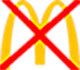
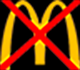
getting there

diff --git a/McDs_Quiz/style.css b/McDs_Quiz/style.css
@@ -7,7 +7,7 @@ body {
 .container {
   display: flex;
   flex-direction: column;
-  background-color: rgb(235, 180, 180);
+  background-color: rgb(201, 201, 201);
   border-radius: 15px;
   font-family: "Poppins";
 }
@@ -34,8 +34,9 @@ body {
 .card1 {
   display: flex;
   flex-direction: row-reverse;
-  padding: 20px;
-  height: 120px;
+
+  padding: 10px;
+  height: 100px;
   border-bottom: 2px dotted black;
 }
 
@@ -49,27 +50,17 @@ body {
 
 .question {
   display: flex;
-  justify-content: flex-start;
+  /* justify-content: flex-start; */
+  align-items: center;
   margin-left: 50px;
-}
-
-.icons {
-  display: flex;
-  flex-direction: column;
-
-  align-items: flex-start;
-  border: solid gray 2px;
 }
 
 /* .wrapper:last-of-type {
   margin-bottom: 48px;
 } */
 
-.radio {
-  display: flex;
-  /* flex-flow: row flex-end; */
-  width: 20px;
-  size: 1.5em;
+input[type="radio"] {
+  transform: scale(1.5);
 }
 
 #radioset1 {
@@ -77,22 +68,18 @@ body {
 }
 
 .mcds {
-  /* display: flex; */
-  flex-direction: row;
-  width: 40px;
-  padding: 20px;
-  background: no-repeat url("../McDs_Quiz/img/McDs_Group.png");
-  background-size: 80%;
+  width: 80px;
+  padding: 10px;
+  background: no-repeat left/60% url("../McDs_Quiz/img/McDs_Group.png");
+
   /* background-size: auto; */
 }
 
 .no-mcds {
-  /* display: flex; */
-  display: block;
-  width: 40px;
-  padding: 20px;
-  background: no-repeat  url("../McDs_Quiz/img/McDs_No_Group.png");
-  background-size: 80%;
+  width: 80px;
+  padding: 10px;
+  background: no-repeat left/60% url("../McDs_Quiz/img/McDs_No_Group.png");
+  /* background-size: 80%; */
 }
 
 button {

diff --git a/McDs_Quiz/index.html b/McDs_Quiz/index.html
@@ -35,10 +35,10 @@
           Customer needs ETA or Status of Service call (this should be escalated
           to the dispatcher or the SP Services Mgr FSS.
         </div>
-        <div class="icons">
-          <div class="mcds"></div>
-          <div class="no-mcds"></div>
-        </div>
+
+        <div class="mcds"></div>
+        <div class="no-mcds"></div>
+
         <label for="radioset1"></label>
         <form id="radioset1" class="radios">
           <input type="radio" name="set1" value="True" /> True
@@ -52,10 +52,10 @@
           to let you issue the service call, refer them to a Service Support
           Specialist and they can explain to them how our process works.
         </div>
-        <div class="icons">
-          <div class="mcds"></div>
-          <div class="no-mcds"></div>
-        </div>
+
+        <div class="mcds"></div>
+        <div class="no-mcds"></div>
+
         <label for="radioset2"></label>
         <form id="radioset2" class="radios">
           <input type="radio" name="set1" value="True" /> True
